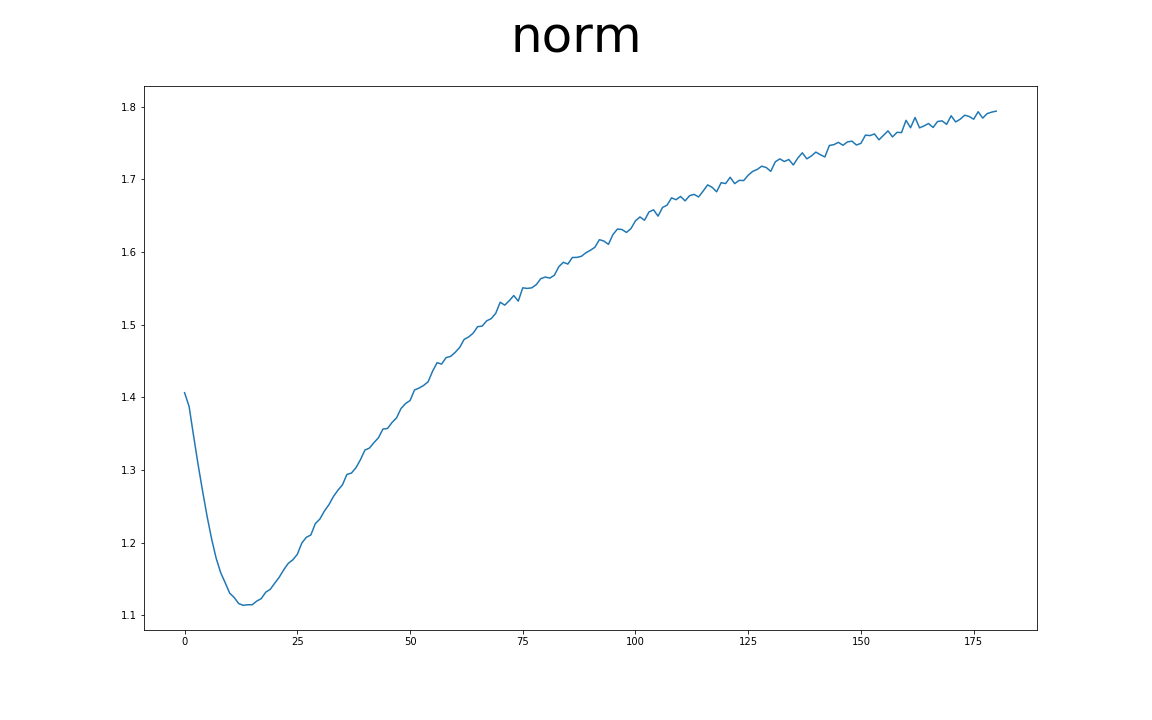
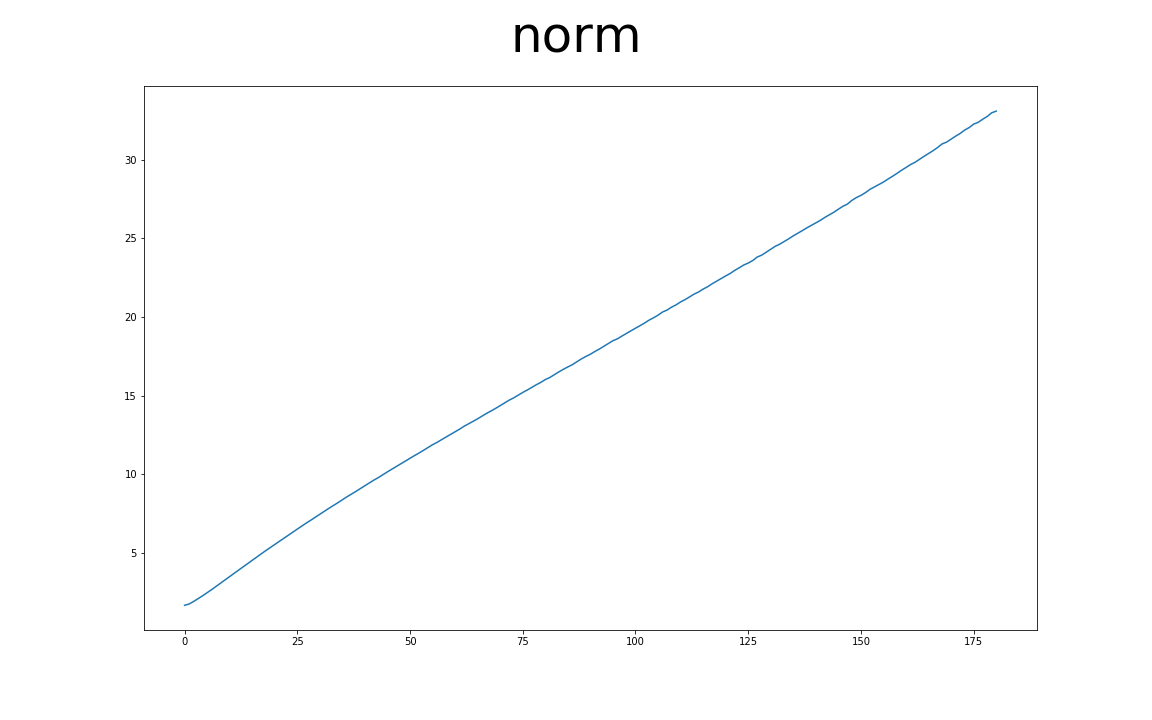
Site updated: 2020-06-10 04:09:17 Update NeuralNetwork-02.md (for batch hard)

diff --git a/2020/06/10/NeuralNetwork-02/index.html b/2020/06/10/NeuralNetwork-02/index.html
@@ -11,16 +11,16 @@
 <title>Neural Network-02 Triplet Loss Example at MNIST - Augustus</title>
 
 
-    <meta name="description" content="前言Triplet Loss在FaceNet那篇論文中，主要是要讓屬於相同一個人的人臉圖片在一個Latent Space中越靠近越好，而讓不屬於這個人的人臉在這個Latent Space中遠離這個人，在這裡我使用MNIST資料集來取代人臉資料，將具有相同類別的手寫圖片彼此聚在一起，讓不同的數字之間有一定的差距。">
+    <meta name="description" content="前言Triplet Loss在FaceNet那篇論文中，主要是要讓屬於相同一個人的人臉圖片在一個Latent Space中越靠近越好，而讓不屬於這個人的人臉在這個Latent Space中遠離這個人，在這裡我使用MNIST資料集來取代人臉資料，將具有相同類別的手寫圖片彼此聚在一起，讓不同的數字之間有一定的差距。 以下的內容為個人理解，如有其他見解歡迎留言討論～">
 <meta property="og:type" content="article">
 <meta property="og:title" content="Neural Network-02 Triplet Loss Example at MNIST">
 <meta property="og:url" content="https://augustushsu.github.io/2020/06/10/NeuralNetwork-02/index.html">
 <meta property="og:site_name" content="Augustus">
-<meta property="og:description" content="前言Triplet Loss在FaceNet那篇論文中，主要是要讓屬於相同一個人的人臉圖片在一個Latent Space中越靠近越好，而讓不屬於這個人的人臉在這個Latent Space中遠離這個人，在這裡我使用MNIST資料集來取代人臉資料，將具有相同類別的手寫圖片彼此聚在一起，讓不同的數字之間有一定的差距。">
+<meta property="og:description" content="前言Triplet Loss在FaceNet那篇論文中，主要是要讓屬於相同一個人的人臉圖片在一個Latent Space中越靠近越好，而讓不屬於這個人的人臉在這個Latent Space中遠離這個人，在這裡我使用MNIST資料集來取代人臉資料，將具有相同類別的手寫圖片彼此聚在一起，讓不同的數字之間有一定的差距。 以下的內容為個人理解，如有其他見解歡迎留言討論～">
 <meta property="og:locale" content="zh_TW">
 <meta property="og:image" content="https://augustushsu.github.io/uploads/Triplet-Loss.png">
 <meta property="article:published_time" content="2020-06-10T05:00:32.000Z">
-<meta property="article:modified_time" content="2020-06-09T19:15:55.153Z">
+<meta property="article:modified_time" content="2020-06-09T20:06:10.352Z">
 <meta property="article:author" content="Augustus">
 <meta property="article:tag" content="triplet loss">
 <meta property="article:tag" content="tensorflow">
@@ -174,7 +174,7 @@
                     <i class="far fa-clock"></i>&nbsp;
                     
                     
-                    7 分鐘 閱讀文 (大約 1008 個字)
+                    10 分鐘 閱讀文 (大約 1487 個字)
                 </span>
                 
                 
@@ -188,13 +188,14 @@
         </h1>
         <div class="content">
             <html><head></head><body><h2 id="前言"><a href="#前言" class="headerlink" title="前言"></a>前言</h2><p>Triplet Loss在FaceNet那篇論文中，主要是要讓屬於相同一個人的人臉圖片在一個Latent Space中越靠近越好，而讓不屬於這個人的人臉在這個Latent Space中遠離這個人，在這裡我使用MNIST資料集來取代人臉資料，將具有相同類別的手寫圖片彼此聚在一起，讓不同的數字之間有一定的差距。</p>
+<p>以下的內容為個人理解，如有其他見解歡迎留言討論～</p>
 <a id="more"></a>
 
 <h2 id="前處理和類神經網路"><a href="#前處理和類神經網路" class="headerlink" title="前處理和類神經網路"></a>前處理和類神經網路</h2><p>首先先定義出MNIST資料要如何使用，再來設計類神經網路，最後將網路和Optimizer使用到實際的訓練過程上。</p>
-<h3 id="資料集"><a href="#資料集" class="headerlink" title="資料集"></a>資料集</h3><p>這邊使用Tensorflow的程式碼直接將MNIST的資料load進來，再將資料normalize到-1到1之間：</p>
+<h3 id="資料集-and-網路架構"><a href="#資料集-and-網路架構" class="headerlink" title="資料集 and 網路架構"></a>資料集 and 網路架構</h3><p>這邊使用Tensorflow的程式碼直接將MNIST的資料load進來，再將資料normalize到-1到1之間：</p>
 <figure class="highlight python hljs"><table><tbody><tr><td class="gutter"><pre><span class="line">1</span><br><span class="line">2</span><br><span class="line">3</span><br><span class="line">4</span><br><span class="line">5</span><br><span class="line">6</span><br><span class="line">7</span><br><span class="line">8</span><br><span class="line">9</span><br><span class="line">10</span><br><span class="line">11</span><br><span class="line">12</span><br><span class="line">13</span><br><span class="line">14</span><br><span class="line">15</span><br><span class="line">16</span><br></pre></td><td class="code"><pre><span class="line"><span class="hljs-keyword">import</span> tensorflow <span class="hljs-keyword">as</span> tf</span><br><span class="line"><span class="hljs-keyword">from</span> tensorflow.keras.datasets.mnist <span class="hljs-keyword">import</span> load_data</span><br><span class="line"><span class="hljs-keyword">from</span> args <span class="hljs-keyword">import</span> parser</span><br><span class="line"></span><br><span class="line">opts = parser()</span><br><span class="line"></span><br><span class="line">[(train_x, train_y), (test_x, test_y)] = load_data(<span class="hljs-string">'mnist.npz'</span>)</span><br><span class="line">test_x = test_x.reshape(test_x.shape[<span class="hljs-number">0</span>], <span class="hljs-number">28</span>, <span class="hljs-number">28</span>, <span class="hljs-number">1</span>).astype(<span class="hljs-string">'float32'</span>)</span><br><span class="line">test_x = (test_x - <span class="hljs-number">127.5</span>) / <span class="hljs-number">127.5</span></span><br><span class="line"></span><br><span class="line">train_images = train_x.reshape(train_x.shape[<span class="hljs-number">0</span>], <span class="hljs-number">28</span>, <span class="hljs-number">28</span>, <span class="hljs-number">1</span>).astype(<span class="hljs-string">'float32'</span>)</span><br><span class="line">train_images = (train_images - <span class="hljs-number">127.5</span>) / <span class="hljs-number">127.5</span></span><br><span class="line"></span><br><span class="line">train_dataset = tf.data.Dataset.from_tensor_slices((train_images, train_y))</span><br><span class="line">train_dataset = train_dataset.shuffle(opts.BUFFER_SIZE)</span><br><span class="line">train_dataset = train_dataset.batch(opts.BATCH_SIZE).take(<span class="hljs-number">20</span>)</span><br></pre></td></tr></tbody></table></figure>
 
-<h3 id="網路架構"><a href="#網路架構" class="headerlink" title="網路架構"></a>網路架構</h3><p>這邊簡單的用兩層CNN加上一層全連結層，並且在最後做一個l2 normalize，將embedding的範圍限制住，通常在做Triplet的時候，都會做l2 normalize讓經過Triplet Net之後的Vector限制在一個範圍內：</p>
+<p>這邊簡單的用兩層CNN加上一層全連結層，並且在最後做一個l2 normalize，將embedding的範圍限制住，通常在做Triplet的時候，都會做l2 normalize讓經過Triplet Net之後的Vector限制在一個範圍內：</p>
 <figure class="highlight python hljs"><table><tbody><tr><td class="gutter"><pre><span class="line">1</span><br><span class="line">2</span><br><span class="line">3</span><br><span class="line">4</span><br><span class="line">5</span><br><span class="line">6</span><br><span class="line">7</span><br><span class="line">8</span><br><span class="line">9</span><br><span class="line">10</span><br><span class="line">11</span><br><span class="line">12</span><br><span class="line">13</span><br><span class="line">14</span><br><span class="line">15</span><br><span class="line">16</span><br><span class="line">17</span><br><span class="line">18</span><br><span class="line">19</span><br><span class="line">20</span><br><span class="line">21</span><br><span class="line">22</span><br></pre></td><td class="code"><pre><span class="line"><span class="hljs-keyword">import</span> tensorflow <span class="hljs-keyword">as</span> tf</span><br><span class="line"><span class="hljs-keyword">from</span> tensorflow.keras <span class="hljs-keyword">import</span> Model, layers</span><br><span class="line"></span><br><span class="line"><span class="hljs-class"><span class="hljs-keyword">class</span> <span class="hljs-title">Triplet_Net</span><span class="hljs-params">(Model)</span>:</span></span><br><span class="line">    <span class="hljs-function"><span class="hljs-keyword">def</span> <span class="hljs-title">__init__</span><span class="hljs-params">(self)</span>:</span></span><br><span class="line">        super(Triplet_Net, self).__init__(self)</span><br><span class="line">        self.emb_layer = tf.keras.models.Sequential([</span><br><span class="line">            layers.Conv2D(<span class="hljs-number">64</span>, (<span class="hljs-number">5</span>, <span class="hljs-number">5</span>), strides=(<span class="hljs-number">2</span>, <span class="hljs-number">2</span>), padding=<span class="hljs-string">'same'</span>),</span><br><span class="line">            layers.LeakyReLU(),</span><br><span class="line">            layers.Dropout(<span class="hljs-number">0.3</span>),</span><br><span class="line">            </span><br><span class="line">            layers.Conv2D(<span class="hljs-number">64</span>, (<span class="hljs-number">5</span>, <span class="hljs-number">5</span>), strides=(<span class="hljs-number">2</span>, <span class="hljs-number">2</span>), padding=<span class="hljs-string">'same'</span>),</span><br><span class="line">            layers.LeakyReLU(),</span><br><span class="line">            layers.Dropout(<span class="hljs-number">0.3</span>),</span><br><span class="line">            </span><br><span class="line">            layers.Flatten(),</span><br><span class="line">            tf.keras.layers.Dense(<span class="hljs-number">200</span>)])</span><br><span class="line">        self.l2_norm = layers.Lambda(<span class="hljs-keyword">lambda</span> x: tf.math.l2_normalize(x, axis=<span class="hljs-number">1</span>))</span><br><span class="line">    <span class="hljs-function"><span class="hljs-keyword">def</span> <span class="hljs-title">call</span><span class="hljs-params">(self, img, training=True)</span>:</span></span><br><span class="line">        vec = self.emb_layer(img)</span><br><span class="line">        vec = self.l2_norm(vec)</span><br><span class="line">        <span class="hljs-keyword">return</span> vec</span><br></pre></td></tr></tbody></table></figure>
 
 <h3 id="Triplet-Net-and-Optimizer"><a href="#Triplet-Net-and-Optimizer" class="headerlink" title="Triplet Net and Optimizer"></a>Triplet Net and Optimizer</h3><p>將Triplet Net和Optimizer定義出來：</p>
@@ -207,16 +208,29 @@
 <h3 id="Whole-Training-Process"><a href="#Whole-Training-Process" class="headerlink" title="Whole Training Process"></a>Whole Training Process</h3><p>整體的訓練過程如下：</p>
 <figure class="highlight python hljs"><table><tbody><tr><td class="gutter"><pre><span class="line">1</span><br><span class="line">2</span><br><span class="line">3</span><br><span class="line">4</span><br><span class="line">5</span><br><span class="line">6</span><br><span class="line">7</span><br><span class="line">8</span><br><span class="line">9</span><br><span class="line">10</span><br><span class="line">11</span><br><span class="line">12</span><br><span class="line">13</span><br></pre></td><td class="code"><pre><span class="line"><span class="hljs-function"><span class="hljs-keyword">def</span> <span class="hljs-title">train</span><span class="hljs-params">(train_dataset)</span>:</span></span><br><span class="line">    <span class="hljs-comment"># Training</span></span><br><span class="line">    <span class="hljs-keyword">for</span> epoch <span class="hljs-keyword">in</span> range(opts.epochs):</span><br><span class="line">        start = time.time()</span><br><span class="line">        </span><br><span class="line">        <span class="hljs-keyword">for</span> image_batch, label_batch <span class="hljs-keyword">in</span> train_dataset.as_numpy_iterator():</span><br><span class="line">            train_step(image_batch, label_batch)</span><br><span class="line">            </span><br><span class="line">        print(format_str.format(epoch+<span class="hljs-number">1</span>,</span><br><span class="line">                                norm.result().numpy(),</span><br><span class="line">                                loss.result().numpy()))</span><br><span class="line">        norm.reset_states()</span><br><span class="line">        loss.reset_states()</span><br></pre></td></tr></tbody></table></figure>
 
-<h2 id="Result"><a href="#Result" class="headerlink" title="Result"></a>Result</h2><p>這邊會展示在訓練過程中紀錄的參數和經過Triplet loss訓練後整體Embedding的變化。</p>
-<h3 id="PCA-2d"><a href="#PCA-2d" class="headerlink" title="PCA-2d"></a>PCA-2d</h3><p>使用PCA將各個Epoch中，從Triplet Net出來的200維度的資料降到2維的平面空間上：</p>
+<h2 id="Result"><a href="#Result" class="headerlink" title="Result"></a>Result</h2><p>這邊會展示在訓練過程中紀錄的參數和經過Triplet loss訓練後整體Embedding的變化，分為Batch Hard跟Semi-Hard。</p>
+<h3 id="Batch-Hard"><a href="#Batch-Hard" class="headerlink" title="Batch Hard"></a>Batch Hard</h3><p>只選擇最短的AN距離和最長的AP距離，詳細可以參考前一篇。</p>
+<h4 id="PCA-2d"><a href="#PCA-2d" class="headerlink" title="PCA-2d"></a>PCA-2d</h4><p>使用PCA將各個Epoch中，從Triplet Net出來的200維度的資料降到2維的平面空間上：</p>
+<p><img src="https://drive.google.com/uc?export=view&id=1B1-A3L_7XnumFV59wrp5VpWtHet3hCW9" alt="Batch Hard 2D"></p>
+<h4 id="PCA-3d"><a href="#PCA-3d" class="headerlink" title="PCA-3d"></a>PCA-3d</h4><p>這邊則是在3維立體空間的示意圖：</p>
+<p><img src="https://drive.google.com/uc?export=view&id=1zzxx-lEvOvg8Oj8qlq6SNqyXrZQBKSmI" alt="Batch Hard 3D"></p>
+<h4 id="Triplet-Loss"><a href="#Triplet-Loss" class="headerlink" title="Triplet Loss"></a>Triplet Loss</h4><p>每個Epoch中記錄的Loss的變化：</p>
+<p><img src="batch_hard_triplet_loss.png" alt="Semi-Hard Triplet Loss"></p>
+<p>Loss會降低到margin，之後就不會再下降了，這是因為選擇的triplet例子都是最難的，而最難的則至少會包含margin，除非在整個Embedding中每筆資料都符合Triplet的定義(機率極低)，而此時loss會是0。</p>
+<h4 id="Norm"><a href="#Norm" class="headerlink" title="Norm"></a>Norm</h4><p>算Embedding Vector的各項平方和再開根號，這邊取的值是在經過l2_norm之前的Vector：</p>
+<p><img src="batch_hard_norm.png" alt="Mean Norm of Embedding"></p>
+<p>整個norm會逐步上升，這是因為經過Triplet Net的Vector各維度會逐步變大，好符合Tripelt Loss。</p>
+<h3 id="Semi-Hard"><a href="#Semi-Hard" class="headerlink" title="Semi-Hard"></a>Semi-Hard</h3><p>選擇AP到AP+margin之間的AN距離，來計算loss，詳細可以參考前一篇。</p>
+<h4 id="PCA-2d-1"><a href="#PCA-2d-1" class="headerlink" title="PCA-2d"></a>PCA-2d</h4><p>使用PCA將各個Epoch中，從Triplet Net出來的200維度的資料降到2維的平面空間上：</p>
 <p><img src="https://drive.google.com/uc?export=view&id=1DuQg0TnLRTbe-KO-022KMmEHj7FZc6fO" alt="Semi-Hard 2D"></p>
-<h3 id="PCA-3d"><a href="#PCA-3d" class="headerlink" title="PCA-3d"></a>PCA-3d</h3><p>這邊則是在3維立體空間的示意圖：</p>
+<h4 id="PCA-3d-1"><a href="#PCA-3d-1" class="headerlink" title="PCA-3d"></a>PCA-3d</h4><p>這邊則是在3維立體空間的示意圖：</p>
 <p><img src="https://drive.google.com/uc?export=view&id=1-TvhqS9oFIhO2JyasbpjTIPm1XI5FQV5" alt="Semi-Hard 3D"></p>
-<h3 id="Triplet-Loss"><a href="#Triplet-Loss" class="headerlink" title="Triplet Loss"></a>Triplet Loss</h3><p>每個Epoch中記錄的Loss的變化：</p>
+<h4 id="Triplet-Loss-1"><a href="#Triplet-Loss-1" class="headerlink" title="Triplet Loss"></a>Triplet Loss</h4><p>每個Epoch中記錄的Loss的變化：</p>
 <p><img src="semi_hard_triplet_loss.png" alt="Semi-Hard Triplet Loss"></p>
-<h3 id="Mean-Norm-of-Embedding"><a href="#Mean-Norm-of-Embedding" class="headerlink" title="Mean Norm of Embedding"></a>Mean Norm of Embedding</h3><p>算Embedding Vector的各項平方和再開根號，這邊取的值是在經過l2_norm之前的Vector：</p>
+<h4 id="Norm-1"><a href="#Norm-1" class="headerlink" title="Norm"></a>Norm</h4><p>算Embedding Vector的各項平方和再開根號，這邊取的值是在經過l2_norm之前的Vector：</p>
 <p><img src="semi_hard_norm.png" alt="Mean Norm of Embedding"></p>
-<p>可以看到<code>norm</code>在降低之後逐步變高，這是因為經過Triplet Net的Vector各維度會逐步變大，好符合Tripelt Loss。</p>
+<p>可以看到<code>norm</code>在降低之後逐步變高，這是因為一開始選擇的例子可以透過些微的調整而讓各個資料符合tirplet的定義，而後調道不能再調的時候，只好發散整個Embedding讓norm越來越大，這也是為什麼需要在Triplet Net後面加上l2 norm的原因。</p>
+<h2 id="結論"><a href="#結論" class="headerlink" title="結論"></a>結論</h2><p>透過PCA降維到2維或是3維，可以看到Semi-Hard的效果好得多，個人猜測因為Batch Hard只選擇最難的例子導致在訓練過程中所看見的資料太少，也可以說最難的資料無法代表那個Batch中的資料。</p>
 </body></html>
         </div>
         
@@ -445,16 +459,12 @@
         <span class="has-mr-6">2</span>
         <span>前處理和類神經網路</span>
         </a><ul class="menu-list"><li>
-        <a class="is-flex" href="#資料集">
+        <a class="is-flex" href="#資料集-and-網路架構">
         <span class="has-mr-6">2.1</span>
-        <span>資料集</span>
-        </a></li><li>
-        <a class="is-flex" href="#網路架構">
-        <span class="has-mr-6">2.2</span>
-        <span>網路架構</span>
+        <span>資料集 and 網路架構</span>
         </a></li><li>
         <a class="is-flex" href="#Triplet-Net-and-Optimizer">
-        <span class="has-mr-6">2.3</span>
+        <span class="has-mr-6">2.2</span>
         <span>Triplet Net and Optimizer</span>
         </a></li></ul></li><li>
         <a class="is-flex" href="#訓練過程">
@@ -473,22 +483,50 @@
         <span class="has-mr-6">4</span>
         <span>Result</span>
         </a><ul class="menu-list"><li>
-        <a class="is-flex" href="#PCA-2d">
+        <a class="is-flex" href="#Batch-Hard">
         <span class="has-mr-6">4.1</span>
+        <span>Batch Hard</span>
+        </a><ul class="menu-list"><li>
+        <a class="is-flex" href="#PCA-2d">
+        <span class="has-mr-6">4.1.1</span>
         <span>PCA-2d</span>
         </a></li><li>
         <a class="is-flex" href="#PCA-3d">
-        <span class="has-mr-6">4.2</span>
+        <span class="has-mr-6">4.1.2</span>
         <span>PCA-3d</span>
         </a></li><li>
         <a class="is-flex" href="#Triplet-Loss">
-        <span class="has-mr-6">4.3</span>
+        <span class="has-mr-6">4.1.3</span>
         <span>Triplet Loss</span>
         </a></li><li>
-        <a class="is-flex" href="#Mean-Norm-of-Embedding">
-        <span class="has-mr-6">4.4</span>
-        <span>Mean Norm of Embedding</span>
-        </a></li></ul></li></ul>
+        <a class="is-flex" href="#Norm">
+        <span class="has-mr-6">4.1.4</span>
+        <span>Norm</span>
+        </a></li></ul></li><li>
+        <a class="is-flex" href="#Semi-Hard">
+        <span class="has-mr-6">4.2</span>
+        <span>Semi-Hard</span>
+        </a><ul class="menu-list"><li>
+        <a class="is-flex" href="#PCA-2d-1">
+        <span class="has-mr-6">4.2.1</span>
+        <span>PCA-2d</span>
+        </a></li><li>
+        <a class="is-flex" href="#PCA-3d-1">
+        <span class="has-mr-6">4.2.2</span>
+        <span>PCA-3d</span>
+        </a></li><li>
+        <a class="is-flex" href="#Triplet-Loss-1">
+        <span class="has-mr-6">4.2.3</span>
+        <span>Triplet Loss</span>
+        </a></li><li>
+        <a class="is-flex" href="#Norm-1">
+        <span class="has-mr-6">4.2.4</span>
+        <span>Norm</span>
+        </a></li></ul></li></ul></li><li>
+        <a class="is-flex" href="#結論">
+        <span class="has-mr-6">5</span>
+        <span>結論</span>
+        </a></li></ul>
             </div>
         </div>
     </div>

diff --git a/categories/實作/Neural-Network/index.html b/categories/實作/Neural-Network/index.html
@@ -175,7 +175,7 @@
                     <i class="far fa-clock"></i>&nbsp;
                     
                     
-                    7 分鐘 閱讀文 (大約 1008 個字)
+                    10 分鐘 閱讀文 (大約 1487 個字)
                 </span>
                 
                 
@@ -188,7 +188,8 @@
             
         </h1>
         <div class="content">
-            <html><head></head><body><h2 id="前言"><a href="#前言" class="headerlink" title="前言"></a>前言</h2><p>Triplet Loss在FaceNet那篇論文中，主要是要讓屬於相同一個人的人臉圖片在一個Latent Space中越靠近越好，而讓不屬於這個人的人臉在這個Latent Space中遠離這個人，在這裡我使用MNIST資料集來取代人臉資料，將具有相同類別的手寫圖片彼此聚在一起，讓不同的數字之間有一定的差距。</p></body></html>
+            <html><head></head><body><h2 id="前言"><a href="#前言" class="headerlink" title="前言"></a>前言</h2><p>Triplet Loss在FaceNet那篇論文中，主要是要讓屬於相同一個人的人臉圖片在一個Latent Space中越靠近越好，而讓不屬於這個人的人臉在這個Latent Space中遠離這個人，在這裡我使用MNIST資料集來取代人臉資料，將具有相同類別的手寫圖片彼此聚在一起，讓不同的數字之間有一定的差距。</p>
+<p>以下的內容為個人理解，如有其他見解歡迎留言討論～</p></body></html>
         </div>
         
         

diff --git a/categories/實作/index.html b/categories/實作/index.html
@@ -173,7 +173,7 @@
                     <i class="far fa-clock"></i>&nbsp;
                     
                     
-                    7 分鐘 閱讀文 (大約 1008 個字)
+                    10 分鐘 閱讀文 (大約 1487 個字)
                 </span>
                 
                 
@@ -186,7 +186,8 @@
             
         </h1>
         <div class="content">
-            <html><head></head><body><h2 id="前言"><a href="#前言" class="headerlink" title="前言"></a>前言</h2><p>Triplet Loss在FaceNet那篇論文中，主要是要讓屬於相同一個人的人臉圖片在一個Latent Space中越靠近越好，而讓不屬於這個人的人臉在這個Latent Space中遠離這個人，在這裡我使用MNIST資料集來取代人臉資料，將具有相同類別的手寫圖片彼此聚在一起，讓不同的數字之間有一定的差距。</p></body></html>
+            <html><head></head><body><h2 id="前言"><a href="#前言" class="headerlink" title="前言"></a>前言</h2><p>Triplet Loss在FaceNet那篇論文中，主要是要讓屬於相同一個人的人臉圖片在一個Latent Space中越靠近越好，而讓不屬於這個人的人臉在這個Latent Space中遠離這個人，在這裡我使用MNIST資料集來取代人臉資料，將具有相同類別的手寫圖片彼此聚在一起，讓不同的數字之間有一定的差距。</p>
+<p>以下的內容為個人理解，如有其他見解歡迎留言討論～</p></body></html>
         </div>
         
         

diff --git a/index.html b/index.html
@@ -162,7 +162,7 @@
                     <i class="far fa-clock"></i>&nbsp;
                     
                     
-                    7 分鐘 閱讀文 (大約 1008 個字)
+                    10 分鐘 閱讀文 (大約 1487 個字)
                 </span>
                 
                 
@@ -175,7 +175,8 @@
             
         </h1>
         <div class="content">
-            <html><head></head><body><h2 id="前言"><a href="#前言" class="headerlink" title="前言"></a>前言</h2><p>Triplet Loss在FaceNet那篇論文中，主要是要讓屬於相同一個人的人臉圖片在一個Latent Space中越靠近越好，而讓不屬於這個人的人臉在這個Latent Space中遠離這個人，在這裡我使用MNIST資料集來取代人臉資料，將具有相同類別的手寫圖片彼此聚在一起，讓不同的數字之間有一定的差距。</p></body></html>
+            <html><head></head><body><h2 id="前言"><a href="#前言" class="headerlink" title="前言"></a>前言</h2><p>Triplet Loss在FaceNet那篇論文中，主要是要讓屬於相同一個人的人臉圖片在一個Latent Space中越靠近越好，而讓不屬於這個人的人臉在這個Latent Space中遠離這個人，在這裡我使用MNIST資料集來取代人臉資料，將具有相同類別的手寫圖片彼此聚在一起，讓不同的數字之間有一定的差距。</p>
+<p>以下的內容為個人理解，如有其他見解歡迎留言討論～</p></body></html>
         </div>
         
         

diff --git a/tags/MNIST/index.html b/tags/MNIST/index.html
@@ -172,7 +172,7 @@
                     <i class="far fa-clock"></i>&nbsp;
                     
                     
-                    7 分鐘 閱讀文 (大約 1008 個字)
+                    10 分鐘 閱讀文 (大約 1487 個字)
                 </span>
                 
                 
@@ -185,7 +185,8 @@
             
         </h1>
         <div class="content">
-            <html><head></head><body><h2 id="前言"><a href="#前言" class="headerlink" title="前言"></a>前言</h2><p>Triplet Loss在FaceNet那篇論文中，主要是要讓屬於相同一個人的人臉圖片在一個Latent Space中越靠近越好，而讓不屬於這個人的人臉在這個Latent Space中遠離這個人，在這裡我使用MNIST資料集來取代人臉資料，將具有相同類別的手寫圖片彼此聚在一起，讓不同的數字之間有一定的差距。</p></body></html>
+            <html><head></head><body><h2 id="前言"><a href="#前言" class="headerlink" title="前言"></a>前言</h2><p>Triplet Loss在FaceNet那篇論文中，主要是要讓屬於相同一個人的人臉圖片在一個Latent Space中越靠近越好，而讓不屬於這個人的人臉在這個Latent Space中遠離這個人，在這裡我使用MNIST資料集來取代人臉資料，將具有相同類別的手寫圖片彼此聚在一起，讓不同的數字之間有一定的差距。</p>
+<p>以下的內容為個人理解，如有其他見解歡迎留言討論～</p></body></html>
         </div>
         
         

diff --git a/tags/batch-hard/index.html b/tags/batch-hard/index.html
@@ -172,7 +172,7 @@
                     <i class="far fa-clock"></i>&nbsp;
                     
                     
-                    7 分鐘 閱讀文 (大約 1008 個字)
+                    10 分鐘 閱讀文 (大約 1487 個字)
                 </span>
                 
                 
@@ -185,7 +185,8 @@
             
         </h1>
         <div class="content">
-            <html><head></head><body><h2 id="前言"><a href="#前言" class="headerlink" title="前言"></a>前言</h2><p>Triplet Loss在FaceNet那篇論文中，主要是要讓屬於相同一個人的人臉圖片在一個Latent Space中越靠近越好，而讓不屬於這個人的人臉在這個Latent Space中遠離這個人，在這裡我使用MNIST資料集來取代人臉資料，將具有相同類別的手寫圖片彼此聚在一起，讓不同的數字之間有一定的差距。</p></body></html>
+            <html><head></head><body><h2 id="前言"><a href="#前言" class="headerlink" title="前言"></a>前言</h2><p>Triplet Loss在FaceNet那篇論文中，主要是要讓屬於相同一個人的人臉圖片在一個Latent Space中越靠近越好，而讓不屬於這個人的人臉在這個Latent Space中遠離這個人，在這裡我使用MNIST資料集來取代人臉資料，將具有相同類別的手寫圖片彼此聚在一起，讓不同的數字之間有一定的差距。</p>
+<p>以下的內容為個人理解，如有其他見解歡迎留言討論～</p></body></html>
         </div>
         
         

diff --git a/tags/semi-hard/index.html b/tags/semi-hard/index.html
@@ -172,7 +172,7 @@
                     <i class="far fa-clock"></i>&nbsp;
                     
                     
-                    7 分鐘 閱讀文 (大約 1008 個字)
+                    10 分鐘 閱讀文 (大約 1487 個字)
                 </span>
                 
                 
@@ -185,7 +185,8 @@
             
         </h1>
         <div class="content">
-            <html><head></head><body><h2 id="前言"><a href="#前言" class="headerlink" title="前言"></a>前言</h2><p>Triplet Loss在FaceNet那篇論文中，主要是要讓屬於相同一個人的人臉圖片在一個Latent Space中越靠近越好，而讓不屬於這個人的人臉在這個Latent Space中遠離這個人，在這裡我使用MNIST資料集來取代人臉資料，將具有相同類別的手寫圖片彼此聚在一起，讓不同的數字之間有一定的差距。</p></body></html>
+            <html><head></head><body><h2 id="前言"><a href="#前言" class="headerlink" title="前言"></a>前言</h2><p>Triplet Loss在FaceNet那篇論文中，主要是要讓屬於相同一個人的人臉圖片在一個Latent Space中越靠近越好，而讓不屬於這個人的人臉在這個Latent Space中遠離這個人，在這裡我使用MNIST資料集來取代人臉資料，將具有相同類別的手寫圖片彼此聚在一起，讓不同的數字之間有一定的差距。</p>
+<p>以下的內容為個人理解，如有其他見解歡迎留言討論～</p></body></html>
         </div>
         
         

diff --git a/tags/tensorflow/index.html b/tags/tensorflow/index.html
@@ -172,7 +172,7 @@
                     <i class="far fa-clock"></i>&nbsp;
                     
                     
-                    7 分鐘 閱讀文 (大約 1008 個字)
+                    10 分鐘 閱讀文 (大約 1487 個字)
                 </span>
                 
                 
@@ -185,7 +185,8 @@
             
         </h1>
         <div class="content">
-            <html><head></head><body><h2 id="前言"><a href="#前言" class="headerlink" title="前言"></a>前言</h2><p>Triplet Loss在FaceNet那篇論文中，主要是要讓屬於相同一個人的人臉圖片在一個Latent Space中越靠近越好，而讓不屬於這個人的人臉在這個Latent Space中遠離這個人，在這裡我使用MNIST資料集來取代人臉資料，將具有相同類別的手寫圖片彼此聚在一起，讓不同的數字之間有一定的差距。</p></body></html>
+            <html><head></head><body><h2 id="前言"><a href="#前言" class="headerlink" title="前言"></a>前言</h2><p>Triplet Loss在FaceNet那篇論文中，主要是要讓屬於相同一個人的人臉圖片在一個Latent Space中越靠近越好，而讓不屬於這個人的人臉在這個Latent Space中遠離這個人，在這裡我使用MNIST資料集來取代人臉資料，將具有相同類別的手寫圖片彼此聚在一起，讓不同的數字之間有一定的差距。</p>
+<p>以下的內容為個人理解，如有其他見解歡迎留言討論～</p></body></html>
         </div>
         
         

diff --git a/tags/triplet-loss/index.html b/tags/triplet-loss/index.html
@@ -172,7 +172,7 @@
                     <i class="far fa-clock"></i>&nbsp;
                     
                     
-                    7 分鐘 閱讀文 (大約 1008 個字)
+                    10 分鐘 閱讀文 (大約 1487 個字)
                 </span>
                 
                 
@@ -185,7 +185,8 @@
             
         </h1>
         <div class="content">
-            <html><head></head><body><h2 id="前言"><a href="#前言" class="headerlink" title="前言"></a>前言</h2><p>Triplet Loss在FaceNet那篇論文中，主要是要讓屬於相同一個人的人臉圖片在一個Latent Space中越靠近越好，而讓不屬於這個人的人臉在這個Latent Space中遠離這個人，在這裡我使用MNIST資料集來取代人臉資料，將具有相同類別的手寫圖片彼此聚在一起，讓不同的數字之間有一定的差距。</p></body></html>
+            <html><head></head><body><h2 id="前言"><a href="#前言" class="headerlink" title="前言"></a>前言</h2><p>Triplet Loss在FaceNet那篇論文中，主要是要讓屬於相同一個人的人臉圖片在一個Latent Space中越靠近越好，而讓不屬於這個人的人臉在這個Latent Space中遠離這個人，在這裡我使用MNIST資料集來取代人臉資料，將具有相同類別的手寫圖片彼此聚在一起，讓不同的數字之間有一定的差距。</p>
+<p>以下的內容為個人理解，如有其他見解歡迎留言討論～</p></body></html>
         </div>
         
         
